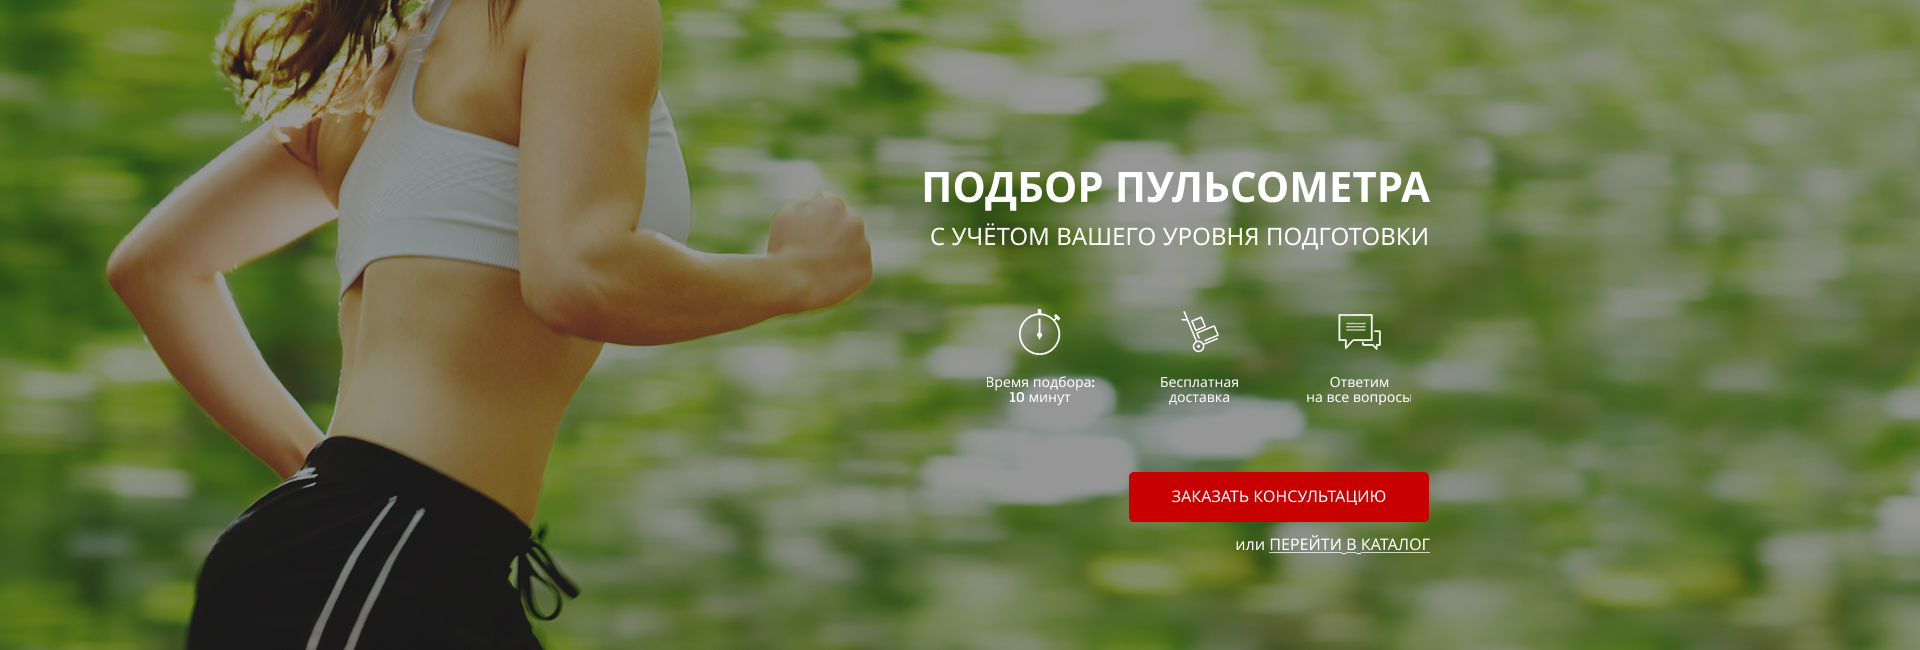
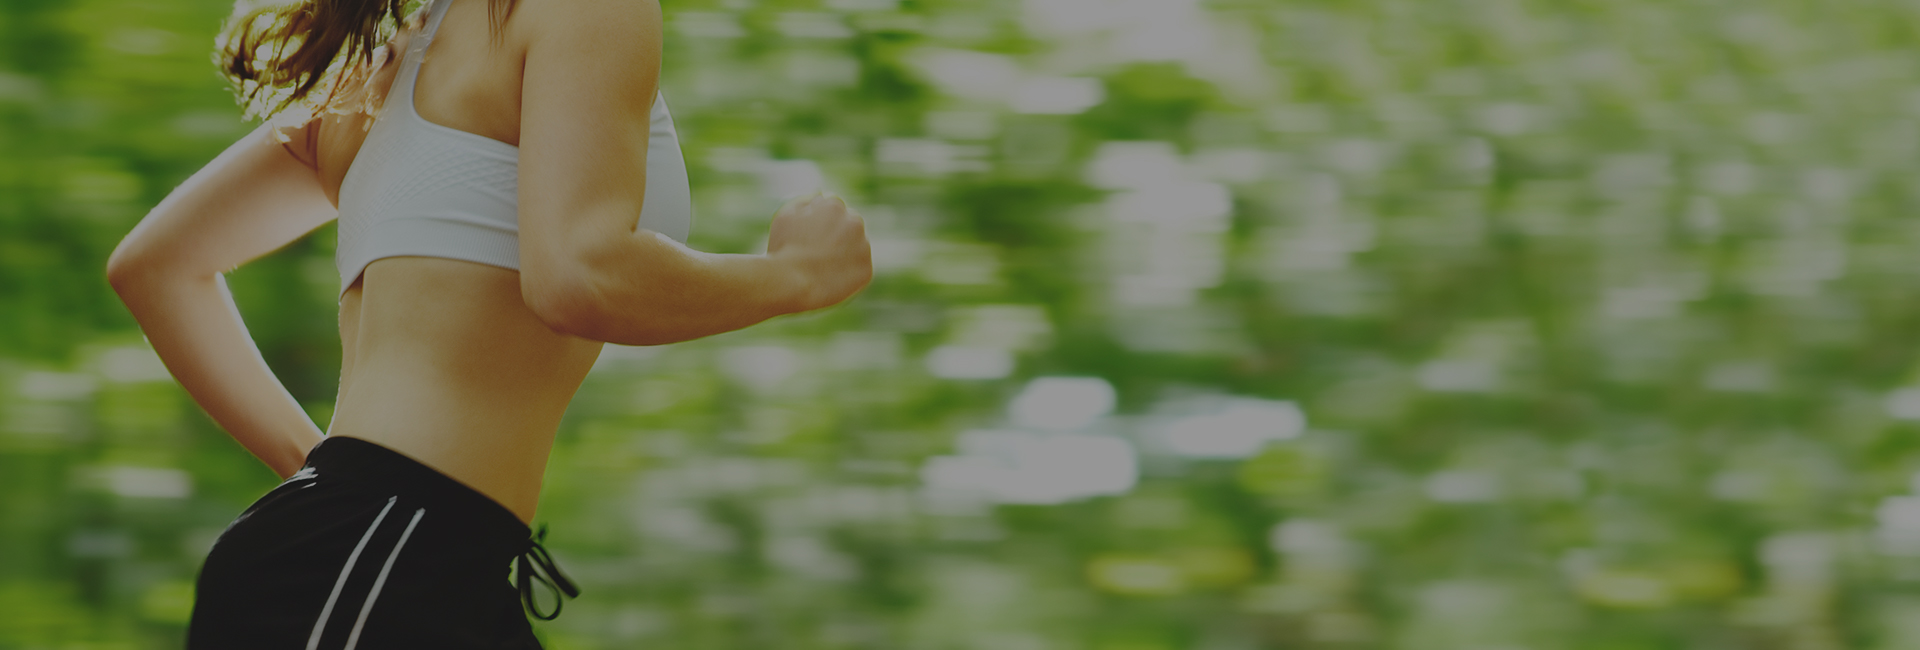
created 1st block

diff --git a/src/index.html b/src/index.html
@@ -12,6 +12,37 @@
     <link rel="stylesheet" href="css/blocks/style.min.css" />
   </head>
   <body>
-    <h1>hello wana</h1>
+    <div class="promo">
+      <div class="container">
+        <header class="header">
+          <a href="#" class="header__logo">
+            <img src="./img/logo.png" alt="logo" />
+          </a>
+          <div class="header__official">
+            Официальный представитель
+            <span>Garmin, Polar, Suunto</span>
+          </div>
+
+          <div class="header__contacts">
+            <a href="tel:+74999228974" class="header__phone">+7 (499) 922-89-74</a>
+            <button class="button">заказать звонок</button>
+          </div>
+        </header>
+        <div class="promo__wrapper">
+          <h1 class="promo__header">Подбор пульсометра</h1>
+          <h2 class="promo__subheader">с учётом Вашего уровня подготовки</h2>
+          <div class="promo__icons">
+            <div class="promo__icon"><img src="./img/promo_1.png" alt="timer" />Время подбора: 10 минут</div>
+            <div class="promo__icon"><img src="./img/promo_2.png" alt="card" />Бесплатная доставка</div>
+            <div class="promo__icon"><img src="./img/promo_3.png" alt="message" />Ответим на все вопросы</div>
+          </div>
+          <button class="button button_main">заказать кОНСУЛЬТАЦИЮ</button>
+          <div class="promo__link">
+            или
+            <a href="#">ПЕРЕЙТИ В КАТАЛОГ</a>
+          </div>
+        </div>
+      </div>
+    </div>
   </body>
 </html>

diff --git a/src/sass/blocks/style.sass b/src/sass/blocks/style.sass
@@ -1,10 +1,16 @@
 @import "../base/_variables.sass"
 @import "../base/_mixins.sass"
 
+
 *
   font-family: 'Montserrat', sans-serif
 
-h1
-  color: $main-color
-  font-size: 25px
-  font-weight: 300
+.container
+  max-width: 950px
+  margin: 0 auto
+
+
+
+@import "_promo.sass"  
+@import "_header.sass"  
+@import "_buttons.sass" 
